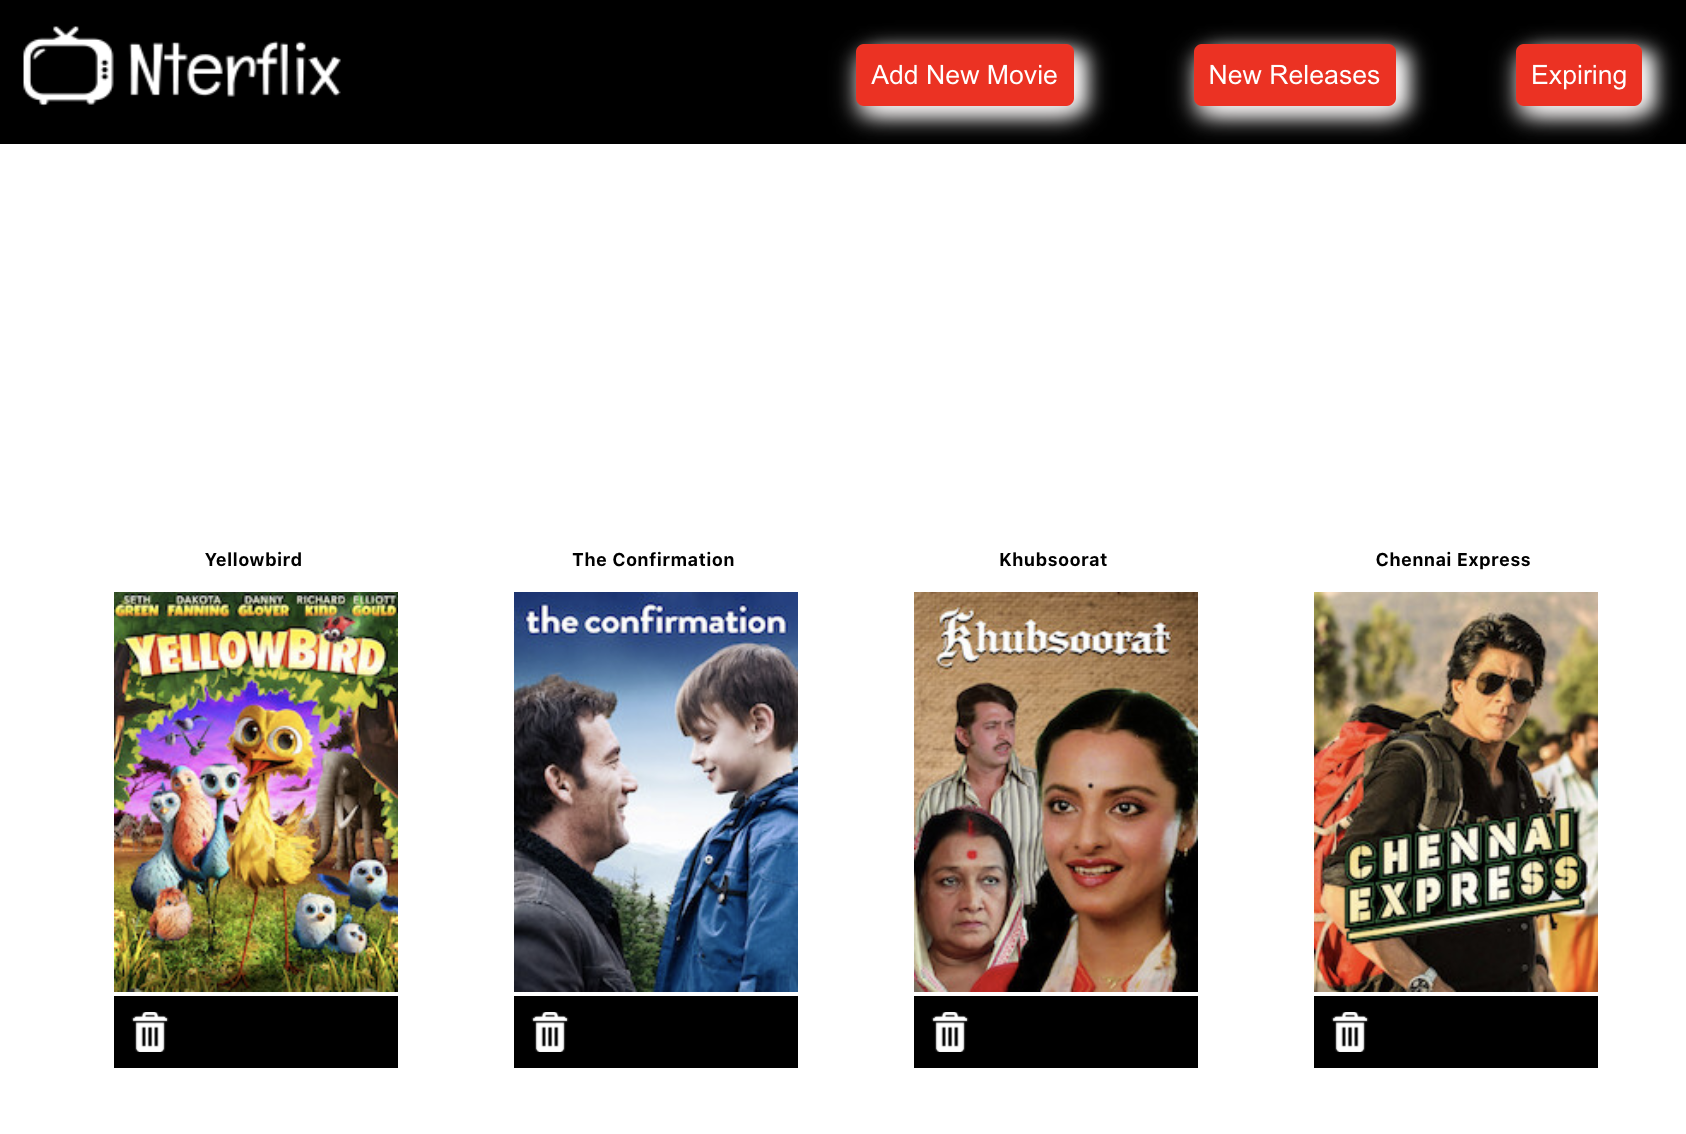
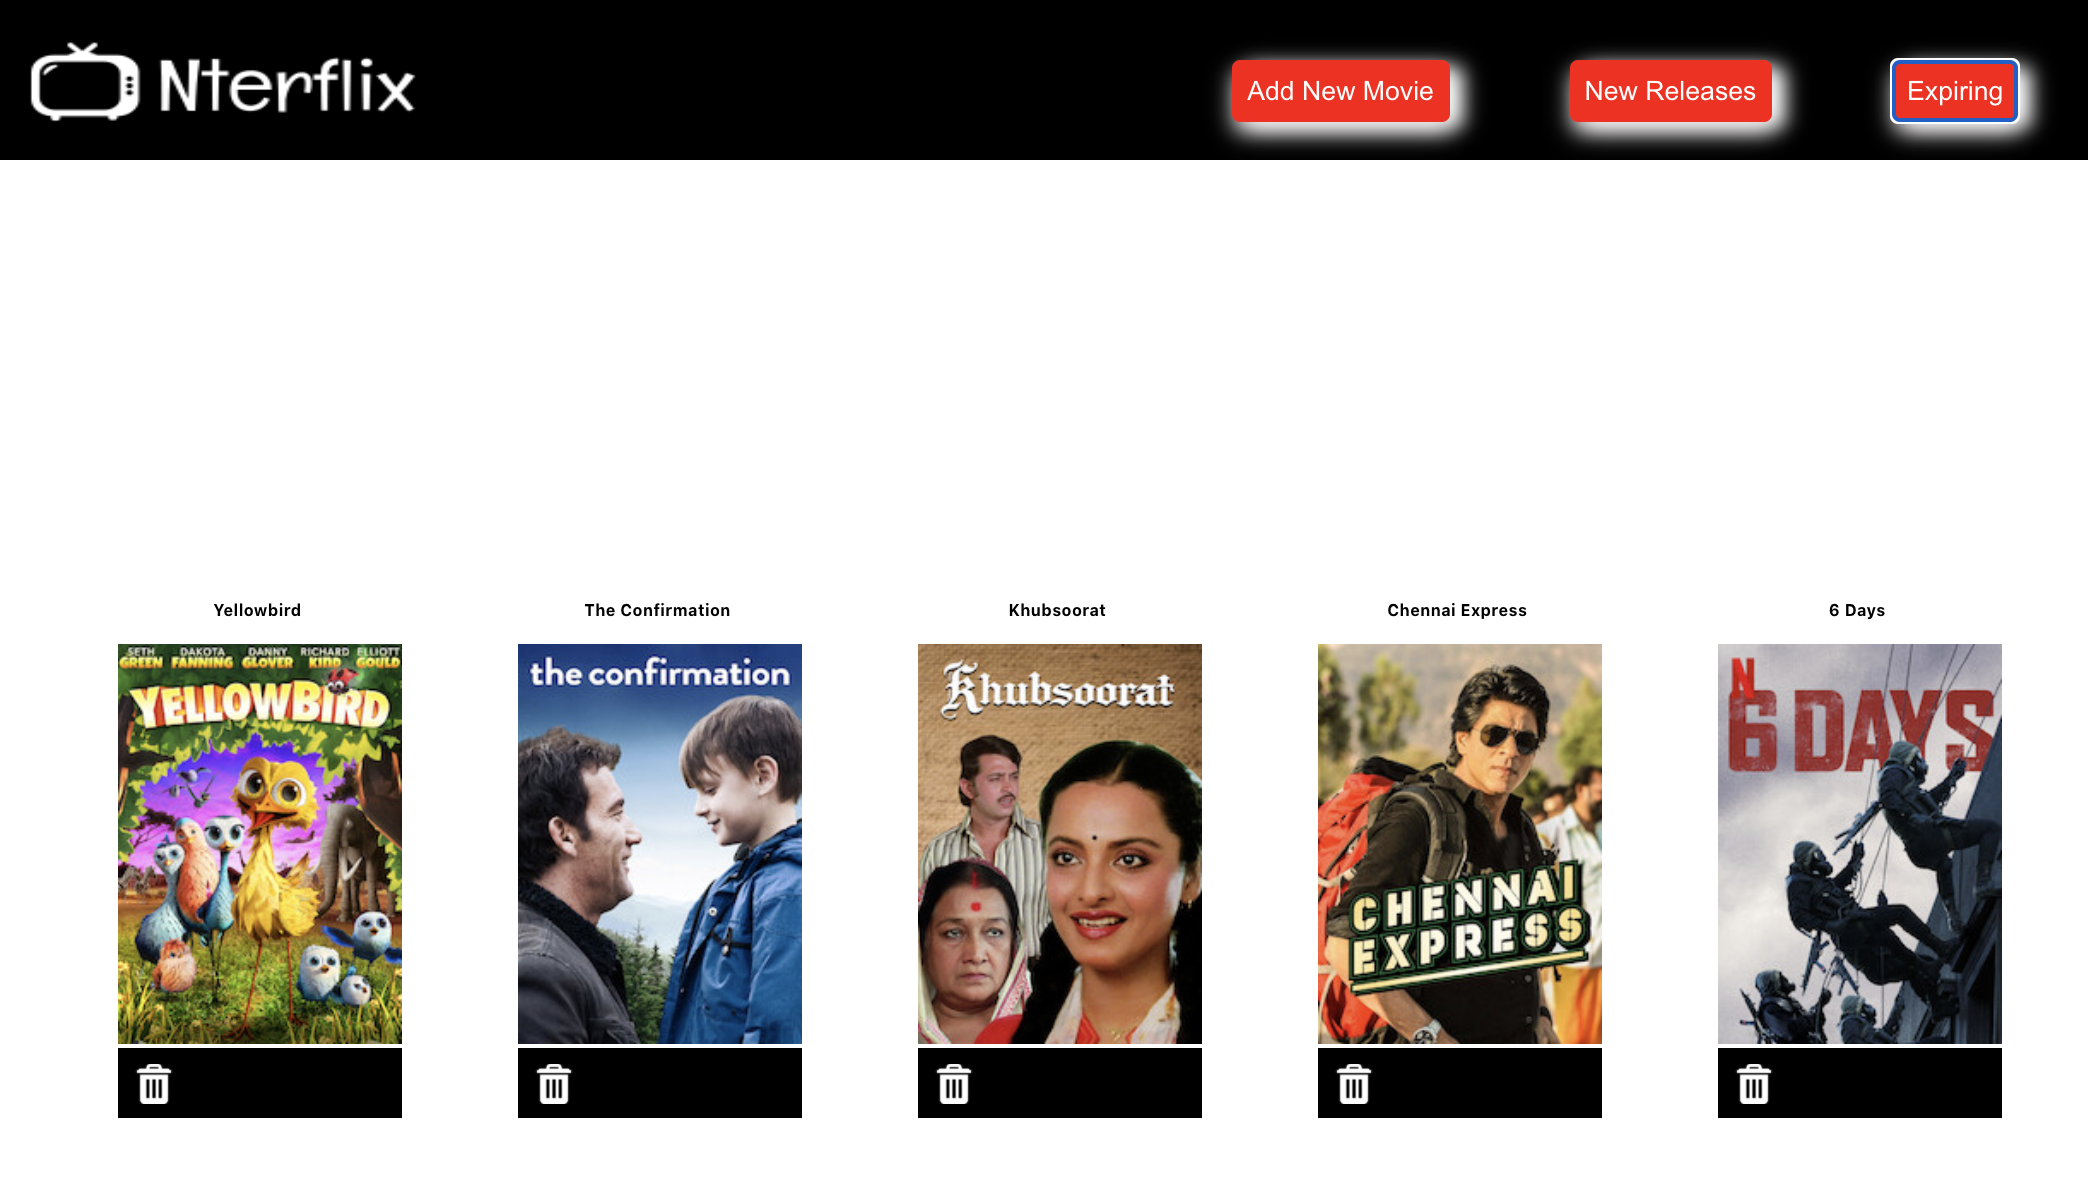
project page styling

diff --git a/src/App.css b/src/App.css
@@ -94,6 +94,8 @@
 .project-flex {
   display: flex;
   flex-direction: row;
+  padding: 0% 2%;
+  
 }
  
 
@@ -104,7 +106,7 @@
   height: 35rem;
   background-color: rgb(3, 4, 59);
 
-  width: 27rem;
+  width: 40rem;
   color: white;
   box-shadow: 20px 20px rgba(0, 0, 0, 0.15);
 }
@@ -139,8 +141,9 @@
 .website-buttons {
   display: flex;
   flex-direction: row;
-  justify-content: center;
-  margin-top: 6%;
+  /* justify-content: center; */
+  /* margin-top: 6%; */
+  padding: 10% 5% 4% 5%;
 }
 
 .resume {
@@ -227,24 +230,16 @@
   background-position: -100% 0;
 }
 
-.Nterflix-flex {
-  display: flex;
-  flex-direction: row;
-  flex-wrap: wrap;
-  padding-left: 9%;
-  padding-top: 6%;
-}
-
 .language-title {
   font-weight: 600;
   text-decoration: underline;
 }
 
-.Cocktail-flex {
+.Link-flex {
   display: flex;
   flex-direction: row;
   flex-wrap: wrap;
-  padding: 6% 0% 0% 9%;
+  padding: 6% 0% 0% 6%;
 }
 
 .contact-flex-1 {
@@ -283,9 +278,9 @@
 }
 
 .project-image {
-  height: 60%;
-  width: 45%;
-  padding: 12% 0% 0% 2%;
+  height: 70%;
+  width: 55%;
+  padding: 10% 0% 0% 5%;
 }
 
 a {

diff --git a/src/components/Projects.js b/src/components/Projects.js
@@ -77,7 +77,7 @@ class Projects extends Component {
               <li>CSS</li>
             </div>
 
-            <div className="Cocktail-flex">
+            <div className="Link-flex">
               <a
                 target="_blank"
                 href="https://cocktail-api-front-end-l47f4ea2f.vercel.app/"
@@ -135,7 +135,7 @@ class Projects extends Component {
               <li>CSS</li>
             </div>
 
-            <div className="Nterflix-flex">
+            <div className="Link-flex">
               <a
                 target="_blank"
                 href="https://butterfly1of4.github.io/project8-frontend/"
@@ -161,9 +161,9 @@ class Projects extends Component {
                 </Button>
               </a>
             </div>
-           
+           </div>
             <img className="project-image" src={Nterflix} />
-            </div>
+           
           </div>
           <div className="project-flex">
           <div className="project-card">
